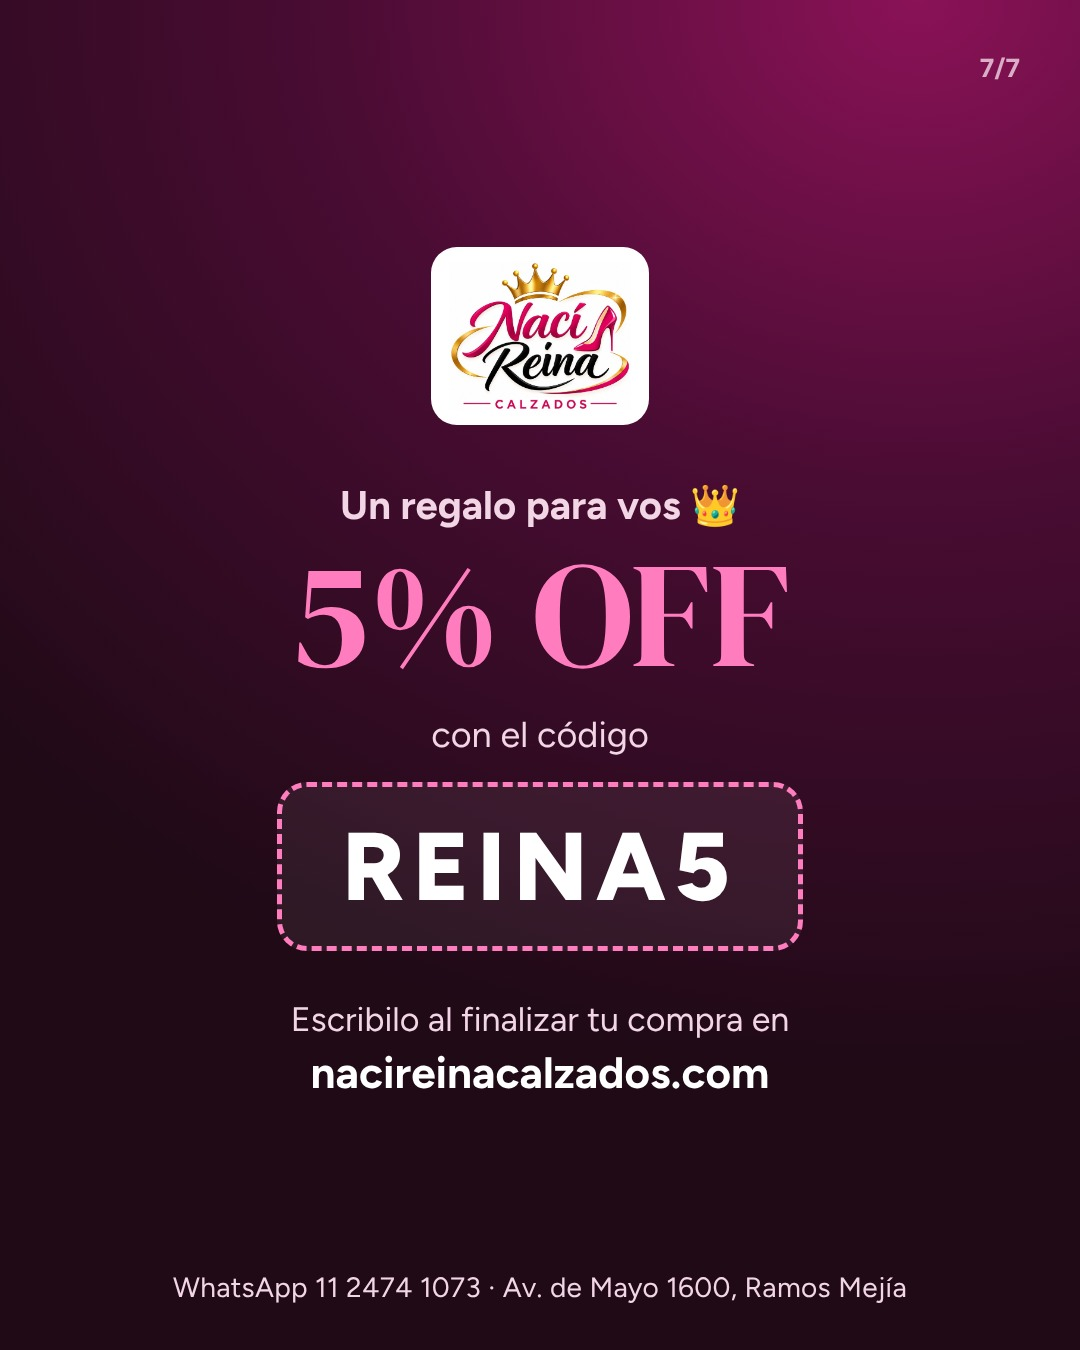
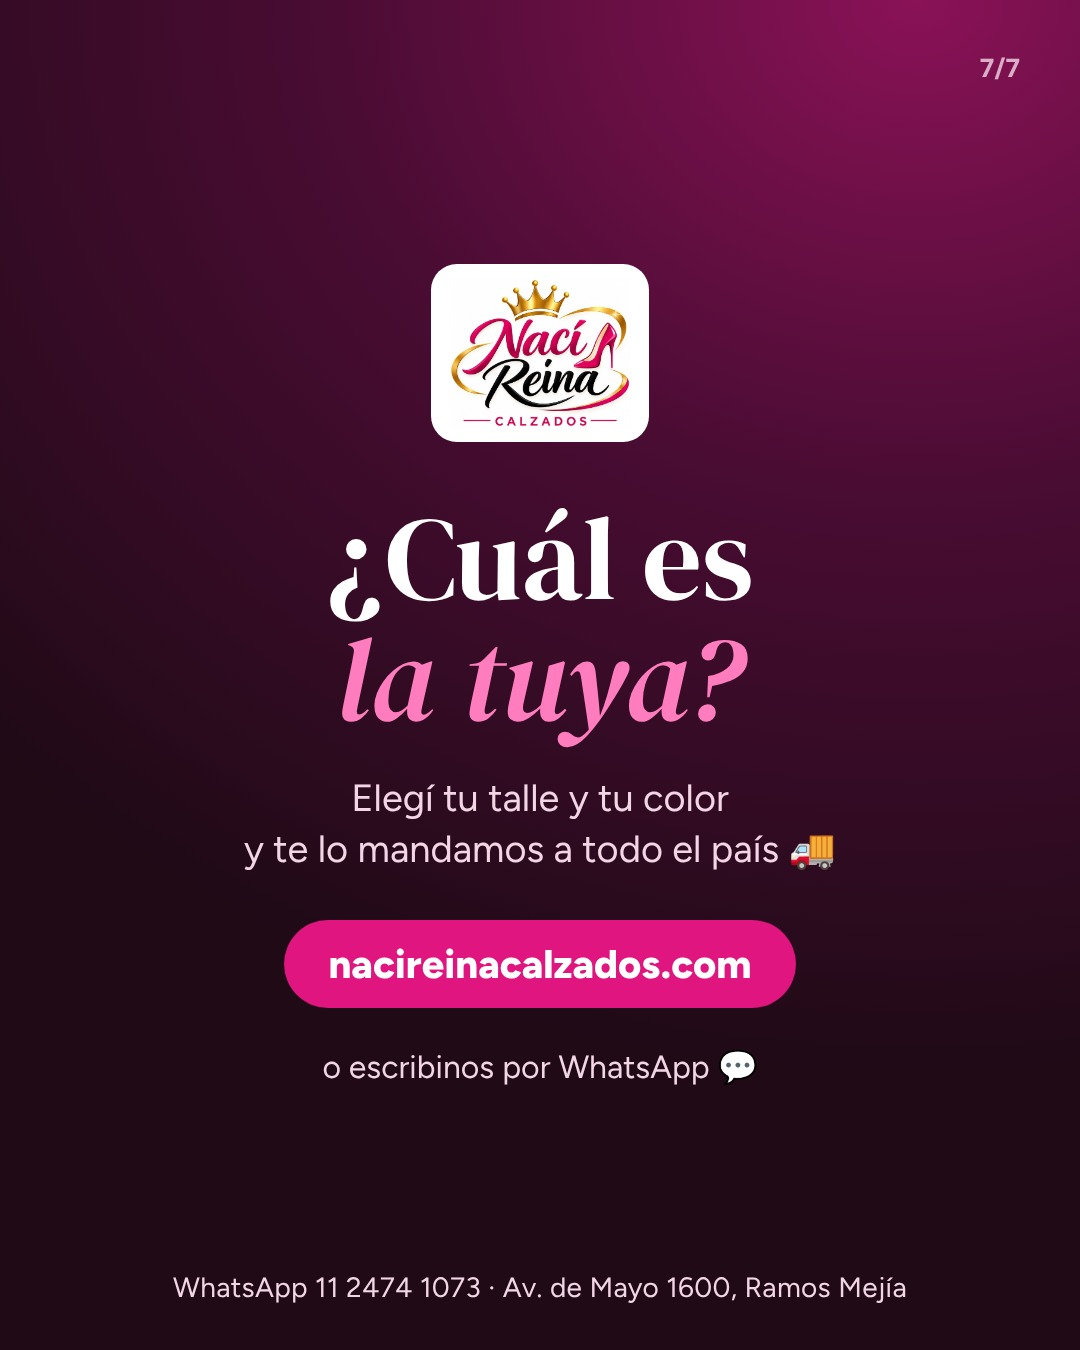
Código de descuento: vence en 48 hs, no figura en el código público ni en las piezas de Instagram
Claude-Session: https://claude.ai/code/session_016kC1pPyL2jkNLS5KGy46ZW

Changed region(s): [[0.2139, 0.1556, 0.7944, 0.8089]]

diff --git a/tienda.js b/tienda.js
@@ -87,10 +87,17 @@ const subtotal = () => carrito.reduce((a, i) => a + precioDe(producto(i.id), i.c
 // Descuento por monto (ver "descuento" en productos.js): misma cuenta que hace el servidor al cobrar
 const DESCUENTO = CATALOGO.descuento || { desde: 0, porcentaje: 0 };
 // Código de descuento (productos.js → cupones): se guarda en el navegador; también llega con ?cupon=CODIGO
-let cupon = aplicarAjustes.cupon(leer("nacireina-cupon", ""), CATALOGO.cupones);
+let cupon = null;
 const cuenta = extra => aplicarAjustes.conDescuento(carrito.map(i => ({ precio: precioDe(producto(i.id), i.color), cant: i.cant })), DESCUENTO, extra, cupon ? cupon.porcentaje : 0);
-function ponerCupon(codigo) {
-  cupon = aplicarAjustes.cupon(codigo, CATALOGO.cupones);
+async function huellaCupon(c) {
+  try {
+    const b = await crypto.subtle.digest("SHA-256", new TextEncoder().encode("nacireina:" + c));
+    return [...new Uint8Array(b)].map(x => x.toString(16).padStart(2, "0")).join("");
+  } catch (e) { return ""; }
+}
+async function ponerCupon(codigo) {
+  const c = aplicarAjustes.normalizarCupon(codigo).slice(0, 30);
+  cupon = c ? aplicarAjustes.cupon(c, await huellaCupon(c), CATALOGO.cupones) : null;
   escribir("nacireina-cupon", cupon ? cupon.codigo : "");
   pintarCarrito();
   if (!$("#vista-checkout").hidden) pintarCheckout();
@@ -1083,21 +1090,22 @@ $("#opDejar").addEventListener("click", () => abrirOpinion({ producto: sel.id })
 // ---------- Código de descuento ----------
 (function () {
   const desdeLink = new URLSearchParams(location.search).get("cupon");
-  if (desdeLink) ponerCupon(desdeLink);
-  const f = $("#formCupon"); if (!f) return;
+  const f = $("#formCupon");
   const pintar = () => {
     $("#cuponIn").value = cupon ? cupon.codigo : "";
     $("#cuponMsj").className = "cupon-msj" + (cupon ? " gratis" : "");
     $("#cuponMsj").textContent = cupon ? `✓ Código ${cupon.codigo} aplicado: ${cupon.porcentaje}% OFF en los productos.` : "";
     $("#cuponQuitar").hidden = !cupon;
   };
-  f.addEventListener("submit", e => {
+  const guardado = desdeLink || leer("nacireina-cupon", "");
+  if (guardado) ponerCupon(guardado).then(pintar);
+  f.addEventListener("submit", async e => {
     e.preventDefault();
     const v = $("#cuponIn").value.trim();
     if (!v) return;
-    if (ponerCupon(v)) pintar();
+    if (await ponerCupon(v)) pintar();
     else { $("#cuponMsj").className = "cupon-msj aviso-error"; $("#cuponMsj").textContent = "Ese código no existe o ya no está vigente."; }
   });
-  $("#cuponQuitar").addEventListener("click", () => { ponerCupon(""); pintar(); });
+  $("#cuponQuitar").addEventListener("click", async () => { await ponerCupon(""); pintar(); });
   pintar();
 })();

diff --git a/publicidad/carrusel-instagram/armar.js b/publicidad/carrusel-instagram/armar.js
@@ -75,16 +75,15 @@ const slides = [
      </div>`).join('')}
   </div>
   <div class="pie">Pagás con tarjeta, débito o Mercado Pago</div>`,
-  // 7 Código
+  // 7 Cierre
   `${base}
   <div class="num">7/7</div>
   <div style="position:absolute;inset:0;display:flex;flex-direction:column;align-items:center;justify-content:center;text-align:center;padding:0 70px">
     <span class="logo" style="margin-bottom:56px"><img src="${logo}" style="height:150px"></span>
-    <p style="font-size:40px;font-weight:700;color:#f3d6e6">Un regalo para vos 👑</p>
-    <h2 class="serif" style="font-size:150px;margin:10px 0 24px"><span class="rosa">5% OFF</span></h2>
-    <p style="font-size:36px;color:#f3d6e6;margin-bottom:26px">con el código</p>
-    <div style="border:5px dashed #FF7DBE;border-radius:30px;padding:22px 60px;font-size:96px;font-weight:800;letter-spacing:8px;background:#ffffff10">REINA5</div>
-    <p style="font-size:34px;line-height:1.35;margin-top:46px;color:#f3d6e6">Escribilo al finalizar tu compra en<br><b style="color:#fff;font-size:44px">nacireinacalzados.com</b></p>
+    <h2 class="serif" style="font-size:118px;line-height:1.02">¿Cuál es<br><i class="rosa">la tuya?</i></h2>
+    <p style="font-size:38px;color:#f3d6e6;margin:34px 0 44px;line-height:1.35">Elegí tu talle y tu color<br>y te lo mandamos a todo el país 🚚</p>
+    <span class="flecha" style="font-size:40px;padding:20px 44px">nacireinacalzados.com</span>
+    <p style="font-size:32px;margin-top:40px;color:#f3d6e6">o escribinos por WhatsApp 💬</p>
   </div>
   <div class="pie" style="font-size:28px">WhatsApp 11 2474 1073 · Av. de Mayo 1600, Ramos Mejía</div>`,
 ];

diff --git a/ajustes.js b/ajustes.js
@@ -55,11 +55,15 @@
   // Descuento por monto de compra (ver "descuento" en productos.js). Recibe [{ precio, cant }] y devuelve
   // el precio con descuento de cada línea (redondeado a centavos) y los totales. Página y servidor usan esta misma cuenta.
   // extra: porcentaje de descuento por pagar con transferencia (se aplica después del de monto, solo a los productos).
-  // Código de descuento (productos.js → cupones): devuelve { codigo, porcentaje } o null si no existe
-  aplicarAjustes.cupon = function (codigo, cupones) {
-    const c = String(codigo || "").trim().toUpperCase();
-    const pct = c && cupones ? Number(cupones[c]) || 0 : 0;
-    return pct > 0 ? { codigo: c, porcentaje: pct } : null;
+  // Código de descuento (productos.js → cupones). huella = sha256("nacireina:" + código), la calcula quien llama
+  // (navegador y servidor). Devuelve { codigo, porcentaje } o null si no existe o ya venció.
+  aplicarAjustes.normalizarCupon = c => String(c || "").trim().toUpperCase();
+  aplicarAjustes.cupon = function (codigo, huella, cupones, ahora) {
+    const c = aplicarAjustes.normalizarCupon(codigo);
+    const k = c && Array.isArray(cupones) ? cupones.find(x => x.huella === huella) : null;
+    if (!k || !(Number(k.porcentaje) > 0)) return null;
+    if (k.hasta && (ahora || Date.now()) > Date.parse(k.hasta)) return null;
+    return { codigo: c, porcentaje: Number(k.porcentaje), hasta: k.hasta || "" };
   };
   // Orden: descuento por monto → código de descuento (cupon, %) → transferencia (extra, %). Nunca al envío.
   aplicarAjustes.conDescuento = function (lineas, cfg, extra, cupon) {

diff --git a/productos.js b/productos.js
@@ -19,9 +19,12 @@
   // Descuento extra por pagar con transferencia bancaria (sobre los productos, después del de monto).
   // Los datos de la cuenta (alias, CBU, titular) se cargan en Vercel: TRANSFERENCIA_ALIAS, TRANSFERENCIA_CBU, TRANSFERENCIA_TITULAR.
   transferencia: { porcentaje: 10 },
-  // Códigos de descuento para mandar a clientes: "CÓDIGO": porcentaje (sobre los productos, no el envío).
-  // Se escriben en el checkout o vienen en el link nacireinacalzados.com/?cupon=CÓDIGO. Para darlo de baja, borrar la línea.
-  cupones: { "REINA5": 5 },
+  // Códigos de descuento exclusivos (los manda el dueño a sus clientes): sobre los productos, no el envío.
+  // El código NO se escribe acá (este archivo es público): va su huella, sha256("nacireina:" + CÓDIGO en mayúsculas).
+  // hasta: vence en esa fecha y hora (hora argentina). Se escriben en el checkout o vienen en el link ?cupon=CÓDIGO.
+  cupones: [
[1 lines of base64/hex data omitted]
+  ],
 
   envio: {
     // Envío gratis cuando los productos suman este monto o más. 0 = sin envío gratis.

diff --git a/api/_pedido.js b/api/_pedido.js
@@ -45,7 +45,8 @@ async function armarPedido(body, base, { transferencia = false } = {}) {
   // Descuento por monto (10% desde $220.000): se aplica a cada producto, no al envío
   const pctTransf = transferencia ? Number((CATALOGO.transferencia || {}).porcentaje) || 0 : 0;
   // Código de descuento: se valida acá contra productos.js (si no existe, no se aplica)
-  const cupon = aplicarAjustes.cupon(body.cupon, CATALOGO.cupones);
+  const codigo = aplicarAjustes.normalizarCupon(body.cupon).slice(0, 30);
+  const cupon = codigo ? aplicarAjustes.cupon(codigo, require("crypto").createHash("sha256").update("nacireina:" + codigo).digest("hex"), CATALOGO.cupones) : null;
   const cuenta = aplicarAjustes.conDescuento(lineas.map(l => ({ precio: l.precio, cant: l.cant })), CATALOGO.descuento, pctTransf, cupon ? cupon.porcentaje : 0);
   const off = [cuenta.porcentaje ? `${cuenta.porcentaje}% OFF` : "", cupon ? `código ${cupon.codigo}` : "", cuenta.porcentajeTransferencia ? `${cuenta.porcentajeTransferencia}% OFF transferencia` : ""].filter(Boolean).join(" + ");
   const items = lineas.map((l, i) => ({

diff --git a/publicidad/carrusel-instagram/portadas/armar.js b/publicidad/carrusel-instagram/portadas/armar.js
@@ -73,7 +73,7 @@ const piezas = {
   <div style="position:absolute;top:380px;left:0;right:0;text-align:center"><span style="display:inline-block;background:#FFB3DA;border:6px solid #111;box-shadow:12px 12px 0 #111;border-radius:99px;padding:20px 60px;font-family:'Lilita One';font-size:70px">NO HAY MÁS PASOS</span></div>
   <div style="position:absolute;top:600px;left:0;right:0;text-align:center;font-size:200px">😁👑</div>
   <div style="position:absolute;top:900px;left:0;right:0;text-align:center;font-size:44px;line-height:1.4;color:#2a1a20">
-    Elegí las tuyas en <b>nacireinacalzados.com</b><br>y con el código <b style="background:#111;color:#fff;padding:2px 18px;border-radius:10px">REINA5</b> tenés 5% OFF
+    Elegí las tuyas en<br><b style="font-size:54px">nacireinacalzados.com</b><br>Envíos a todo el país 🚚
   </div>
   ${marca('#7a5a60')}`,
 };

diff --git a/index.html b/index.html
@@ -293,7 +293,7 @@
         <div id="resLineas"></div>
         <form class="cupon" id="formCupon" autocomplete="off">
           <label for="cuponIn">¿Tenés un código de descuento?</label>
-          <div class="cupon-fila"><input class="in" id="cuponIn" placeholder="Ej: REINA5" maxlength="30" autocapitalize="characters"><button class="btn btn-borde" type="submit" style="width:auto;padding-block:11px">Aplicar</button></div>
+          <div class="cupon-fila"><input class="in" id="cuponIn" placeholder="Escribí tu código" maxlength="30" autocapitalize="characters"><button class="btn btn-borde" type="submit" style="width:auto;padding-block:11px">Aplicar</button></div>
           <p class="cupon-msj" id="cuponMsj" aria-live="polite"></p>
           <button class="link" type="button" id="cuponQuitar" hidden>Quitar código</button>
         </form>

diff --git a/CLAUDE.md b/CLAUDE.md
@@ -97,5 +97,5 @@ No hay Node ni Python en las computadoras. `.claude/launch.json` → "tienda" le
 - **Límite de 12 funciones** (plan Hobby de Vercel): cada archivo de `api/` que no empieza con `_` cuenta como una, y hay 11 (desde 2026-10-18; antes 12). Con 13 el deploy falla sin avisar (pasó el 2026-10-07). Lo nuevo va en un archivo `_algo.js` y se entra por una función existente con un `rewrite` en vercel.json (así está `/api/opiniones` → `api/carrito.js?op=opiniones`).
 - Productos primero (2026-10-20, pedido del dueño: "que los productos aparezcan antes"): el catálogo va justo debajo del inicio; las ventajas y las cintas gigantes pasaron abajo del catálogo (antes del manifiesto). Inicio más bajo (compu `min-height:300px`; en celular sin el párrafo) y sin el subtítulo "Tocá un producto…". Primer producto: celu 1072→636 px, compu 1268→673 px (entra en la primera pantalla en las dos).
 - Píxel sin eventos automáticos (2026-10-12): del 5 al 11/10 Meta registró ~7.500 "Agregar al carrito" (casi uno por visita, en la URL del inicio y con 1 solo parámetro) contra 470 "Ver contenido" y 16 "Iniciar pago"; la tienda solo manda AddToCart en `agregar()` (5 parámetros) y se comprobó en vivo que manda uno por agregado real. Se desactivó `autoConfig` del píxel (clics automáticos en botones, `SubscribedButtonClick`). Si el número sigue inflado, la causa es otra: revisar en el Administrador de eventos → Agregar al carrito → Actividades de muestra.
-- Códigos de descuento (2026-11-16, pedido del dueño): `cupones` en productos.js (`"REINA5": 5` = 5% OFF). El cliente lo escribe en el resumen del checkout ("¿Tenés un código de descuento?") o entra con el link `?cupon=REINA5` (queda guardado en el navegador). Se aplica sobre los productos después del descuento por monto y antes del de transferencia (`aplicarAjustes.cupon` y 4° parámetro de `conDescuento`); el servidor lo valida en `_pedido.js` (si no existe, no se aplica) y figura en el email de la venta. Sin límite de usos ni vencimiento: para darlo de baja, borrar la línea. El asistente de WhatsApp no da códigos.
+- Códigos de descuento (2026-11-16, pedido del dueño): `cupones` en productos.js. Son **exclusivos**: solo los manda el dueño; nunca ponerlos en publicaciones, fotos, textos de la página ni en el código público (productos.js solo guarda la huella `sha256("nacireina:"+CÓDIGO)`; el navegador la calcula con `crypto.subtle`, el servidor con `crypto`). Cada uno tiene `porcentaje` y `hasta` (vencimiento). El primero: 5% OFF por 48 hs, vence 2026-11-18 18:00 (hora argentina). El cliente lo escribe en el resumen del checkout ("¿Tenés un código de descuento?") o entra con el link `?cupon=CÓDIGO` (queda guardado en el navegador). Se aplica sobre los productos después del descuento por monto y antes del de transferencia (`aplicarAjustes.cupon` y 4° parámetro de `conDescuento`); el servidor lo valida en `_pedido.js` (si no existe o venció, no se aplica) y figura en el email de la venta. El asistente de WhatsApp no da códigos. Para uno nuevo: calcular la huella y agregar una entrada.
 - Ojo: si en Vercel se hace un "Instant Rollback", los pushes a `main` dejan de publicarse hasta hacer "Promote to Production".
